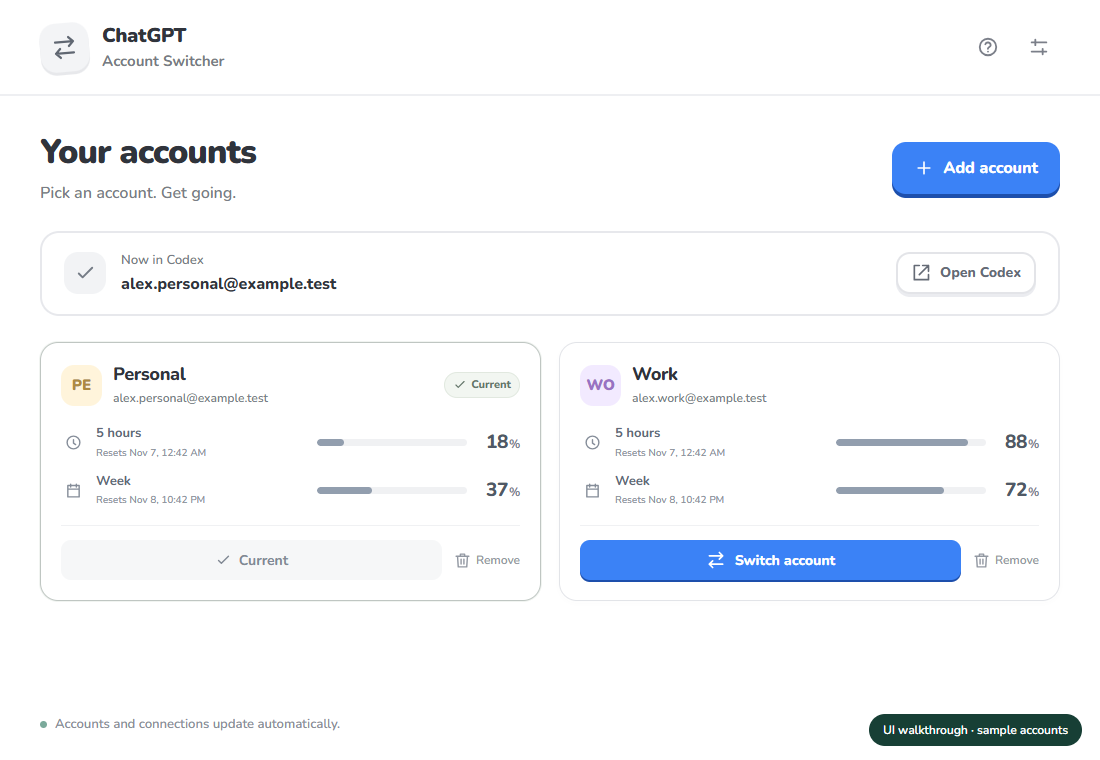
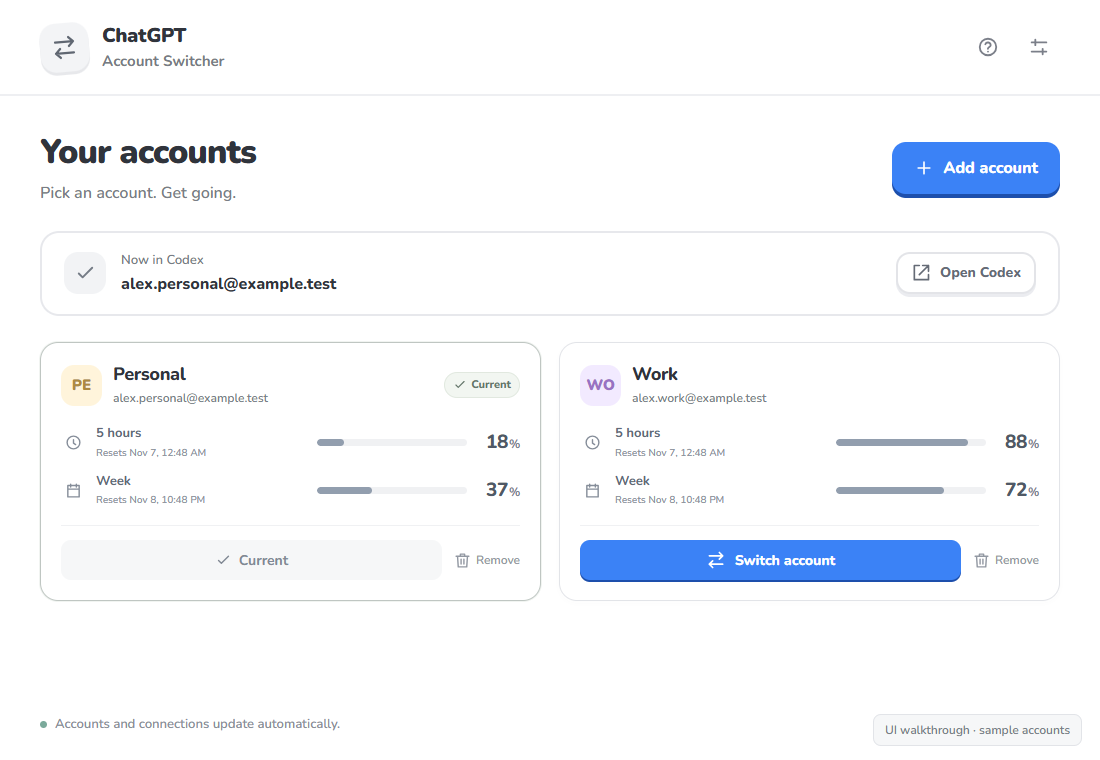
Use the app's own design for promotional previews

Changed region(s): [[0.7727, 0.9382, 0.9891, 0.9987]]

diff --git a/README.md b/README.md
@@ -1,6 +1,6 @@
 # ChatGPT Account Switcher for Codex
 
-**Switch Codex accounts. Keep your flow.**
+**Your Codex accounts, in one place.**
 
 Save your accounts, see remaining usage at a glance, and switch with a confirmed Codex restart. Credentials stay encrypted on your computer. Free, open source, and available in 32 languages.
 
